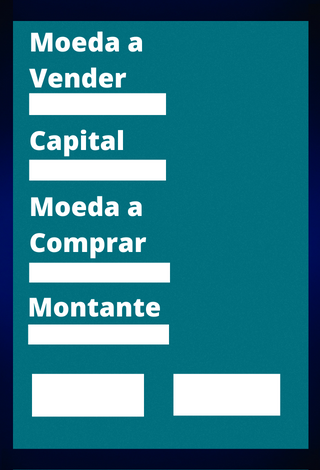
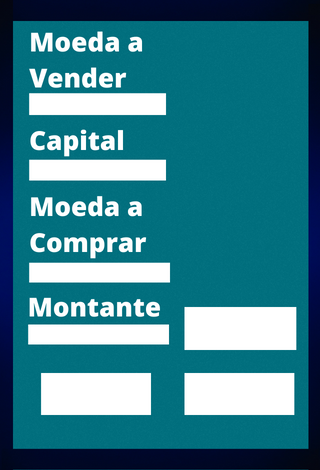
Atualização de novas telas e funções

diff --git a/class_tk.py b/class_tk.py
@@ -569,7 +569,8 @@ fr2_img_6 = PhotoImage(file="imagens\\grafico.png")
 fr2_img_7 = PhotoImage(file="imagens\\moedas.png")
 fr2_img_8 = PhotoImage(file="imagens\\cotação do dia.png")
 fr2_img_9 = PhotoImage(file="imagens\\media.png")
-fr2_img_10 =  PhotoImage(file="imagens\\tela sem fundo.png")
+fr2_img_10 =  PhotoImage(file="imagens\\fundo 3.png")
+fr2_img_11 =  PhotoImage(file="imagens\\sair.png")
 
 #frame 3
 fr3_img_1 = PhotoImage(file="imagens\\tela.png")
@@ -585,6 +586,7 @@ fr3_img_10 = PhotoImage(file="imagens\\grafico.png")
 fr3_img_11 = PhotoImage(file="imagens\\moedas.png")
 fr3_img_12 = PhotoImage(file="imagens\\cotação do dia.png")
 fr3_img_13 = PhotoImage(file="imagens\\media.png")
+fr3_img_14 = PhotoImage(file="imagens\\volta.png")
 
 #frame 4
 fr4_img_1 = PhotoImage(file="imagens\\tela.png")
@@ -599,6 +601,7 @@ fr4_img_10 = PhotoImage(file="imagens\\grafico.png")
 fr4_img_11 = PhotoImage(file="imagens\\moedas.png")
 fr4_img_12 = PhotoImage(file="imagens\\cotação do dia.png")
 fr4_img_13 = PhotoImage(file="imagens\\media.png")
+fr4_img_14 = PhotoImage(file="imagens\\volta.png")
 
 #frame 5
 fr5_img_1 = PhotoImage(file="imagens\\tela.png")
@@ -606,13 +609,14 @@ fr5_img_2 = PhotoImage(file="imagens\\guardar.png")
 fr5_img_3 = PhotoImage(file="imagens\\comprar.png")
 fr5_img_4 = PhotoImage(file="imagens\\vender.png")
 fr5_img_5 = PhotoImage(file="imagens\\tabela.png")
-fr5_img_6= PhotoImage(file="imagens\\moeda e investir.png")
+fr5_img_6= PhotoImage(file="imagens\\investir.png")
 fr5_img_8 = PhotoImage(file="imagens\\limpa.png")
 fr5_img_9 = PhotoImage(file="imagens\\confirmar.png")
 fr5_img_10 = PhotoImage(file="imagens\\grafico.png")
 fr5_img_11 = PhotoImage(file="imagens\\moedas.png")
 fr5_img_12 = PhotoImage(file="imagens\\cotação do dia.png")
 fr5_img_13 = PhotoImage(file="imagens\\media.png")
+fr5_img_14 = PhotoImage(file="imagens\\volta.png")
 
 #frame 6
 
@@ -720,7 +724,8 @@ fr2_lab4 = Label(fr2,bd=0, image=fr2_img_8).place(width=218, height=52, x=222, y
 
 fr2_lab5 = Label(fr2,bd=0, image=fr2_img_9).place(width=480, height=52, x=462, y=148) # label media
 
-fr2_lab6 = Label(fr2, image=fr2_img_10,bd=0).place(width=310, height=470, x=970, y=130)
+fr2_lab6 = Label(fr2, image=fr2_img_10,bd=0)
+fr2_lab6.place(width=310, height=470, x=970, y=130)
 
 fr2_lab7 = Label(fr2, text='',bd=0)
 fr2_lab7.place(width=200, height=40, x=230, y=225) #label do USD
@@ -752,6 +757,23 @@ fr2_lab15.place(width=465, height=40, x=470, y=460) #label do Bitcoin Média
 fr2_lab16 = Label(fr2, text='',bd=0)
 fr2_lab16.place(width=465, height=40, x=470, y=535) #label do ETHEREUM Média
 
+fr2_lab17 = Label(fr2, text='ola', font=("Calibri", 15))
+fr2_lab17.place(width=145, height=24, x=991, y=191) #Nome
+
+fr2_lab18 = Label(fr2, text='ola', font=("Calibri", 15))
+fr2_lab18.place(width=145, height=24, x=991, y=252) #Dólar
+
+fr2_lab19 = Label(fr2, text='ola', font=("Calibri", 15))
+fr2_lab19.place(width=145, height=24, x=991, y=308) #Euro
+
+fr2_lab20 = Label(fr2, text='ola', font=("Calibri", 15))
+fr2_lab20.place(width=145, height=24, x=991, y=360) #libra
+
+fr2_lab21 = Label(fr2, text='ola', font=("Calibri", 15))
+fr2_lab21.place(width=145, height=24, x=991, y=416) #Bitcoin
+
+fr2_lab22 = Label(fr2, text='ola', font=("Calibri", 15))
+fr2_lab22.place(width=145, height=24, x=991, y=472) #Ethereum
 
 # Criação de botões
 
@@ -761,7 +783,9 @@ fr2_bt1 = Button(fr2, bd=0, image=fr2_img_2, command= lambda:[fr2.grid_remove(),
 fr2_bt2 = Button(fr2, bd=0, image=fr2_img_3, command= lambda:[fr2.grid_remove(),fr3.grid(),root.geometry("1289x600+310+153")]).place(width=223, height=60, x=54, y=32)
 # Botão de vender
 fr2_bt3 = Button(fr2, bd=0, image=fr2_img_4, command= lambda:[fr2.grid_remove(),fr4.grid(),root.geometry("1289x600+310+153")]).place(width=223, height=60, x=367, y=32)
-
+# Botão de Sair
+fr2_bt4 = Button(fr2,bd=0,image=fr2_img_11, command= lambda:[fr2.grid_remove(),fr0.grid(),root.geometry("484x560+800+155")])
+fr2_bt4.place(width=115, height=42, x=1070, y=518)
 
 
 # frame 3 # tela da Compra
@@ -831,12 +855,15 @@ fr3_bt2 = Button(fr3, bd=0, image=fr3_img_3, command= lambda:[fr3.grid_remove(),
 fr3_bt3 = Button(fr3, bd=0, image=fr3_img_4, command= lambda:[fr3.grid_remove(),fr4.grid(),root.geometry("1289x600+310+153")]).place(width=223, height=60, x=367, y=32)
 # Botão de limpar
 fr3_bt4 = Button(fr3, bd=0, image=fr3_img_8, command=lambda: [clear_1()])
-fr3_bt4.place(width=115, height=42, x=996, y=503)
+fr3_bt4.place(width=115, height=43, x=996, y=461)
 
 #  botão de Confirmar
 fr3_bt5 = Button(fr3, bd=0, image=fr3_img_9, command=lambda: [escolha_dolar2()])
-fr3_bt5.place(width=115, height=42, x=1137, y=504)
+fr3_bt5.place(width=115, height=42, x=1137, y=462)
 
+# Botão de voltar
+fr3_bt6 = Button(fr3, bd=0, image=fr3_img_14, command=lambda: [fr3.grid_remove(),fr2.grid(),root.geometry("1289x600+310+153")])
+fr3_bt6.place(width=115, height=42, x=1069, y=524)
 
 
 fr3_in1 = Entry(fr3,bd=2,textvariable=var1, font=("Calibri", 15))
@@ -919,9 +946,14 @@ fr4_bt3 = Button(fr4, bd=0, image=fr4_img_4, command= lambda:[fr4.grid_remove(),
 
 # Botão de limpar
 fr4_bt4 = Button(fr4, bd=0, image=fr4_img_8, command=lambda: [clear_2()] )
-fr4_bt4.place(width=115, height=42, x=996, y=504)
+fr4_bt4.place(width=115, height=43, x=1147, y=502)
 #  botão de Confirmar
-fr4_bt5 = Button(fr4, bd=0, image=fr4_img_9).place(width=115, height=42, x=1137, y=504)
+fr4_bt5 = Button(fr4, bd=0, image=fr4_img_9)
+fr4_bt5.place(width=115, height=42, x=1147, y=438)
+
+# Botão de voltar
+fr4_bt6 = Button(fr4, bd=0, image=fr4_img_14, command=lambda: [fr4.grid_remove(),fr2.grid(),root.geometry("1289x600+310+153")])
+fr4_bt6.place(width=115, height=42, x=1002, y=503)
 
 
 fr4_in1 = Entry(fr4, bd=2,textvariable=var2, font=("Calibri", 15))
@@ -1001,9 +1033,13 @@ fr5_bt2 = Button(fr5, bd=0, image=fr5_img_3,command= lambda:[fr5.grid_remove(),f
 fr5_bt3 = Button(fr5, bd=0, image=fr5_img_4,command= lambda:[fr5.grid_remove(),fr4.grid(),root.geometry("1289x600+310+153")]).place(width=223, height=60, x=367, y=32)
 # Botão de limpar
 fr5_bt4 = Button(fr5, bd=0, image=fr5_img_8, command=lambda: [clear_3()])
-fr5_bt4.place(width=115, height=42, x=996, y=510)
+fr5_bt4.place(width=115, height=42, x=996, y=459)
 #  botão de Confirmar
-fr5_bt5 = Button(fr5, bd=0, image=fr5_img_9).place(width=115, height=42, x=1130, y=510)
+fr5_bt5 = Button(fr5, bd=0, image=fr5_img_9)
+fr5_bt5.place(width=115, height=42, x=1130, y=460)
+# Botão de voltar
+fr5_bt6 = Button(fr5, bd=0, image=fr4_img_14, command=lambda: [fr5.grid_remove(),fr2.grid(),root.geometry("1289x600+310+153")])
+fr5_bt6.place(width=115, height=42, x=1062, y=525)
 
 fr5_in1 = Entry(fr5, bd=2,textvariable=var4, font=("Calibri", 15))
 fr5_in1.place(width=140, height=24, x=992, y=222) #moeda a Inserir
